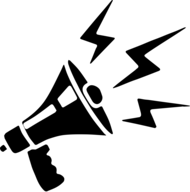
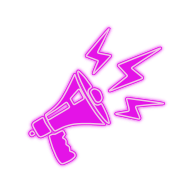
Use dark theme for the pwa.

Changed region(s): [[0.0, 0.0, 1.0, 1.0]]

diff --git a/public/service-worker.js b/public/service-worker.js
@@ -1,5 +1,5 @@
 // Service Worker for BullhornXL PWA
-const CACHE_NAME = 'bullhornxl-v1';
+const CACHE_NAME = 'bullhornxl-v2';
 const urlsToCache = [
   '/',  // Home page
   '/manifest.json'  // Web app manifest
